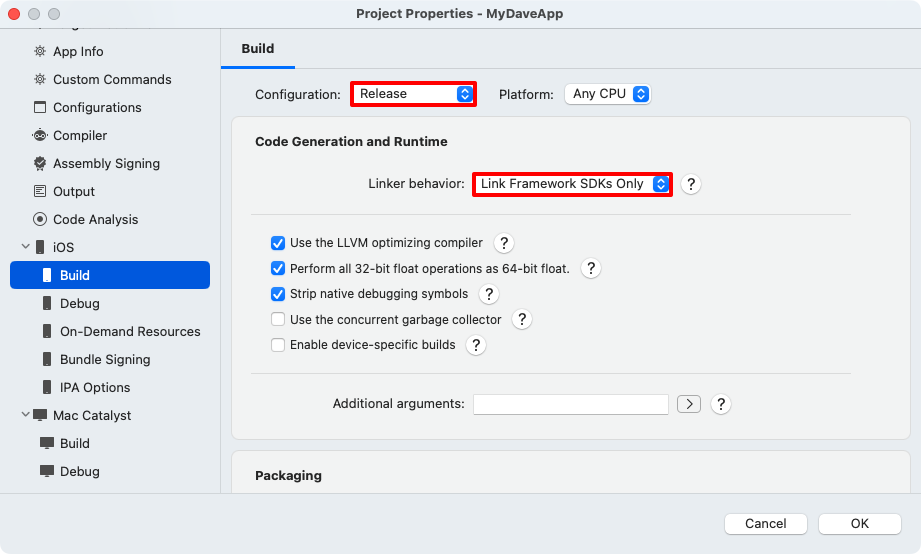
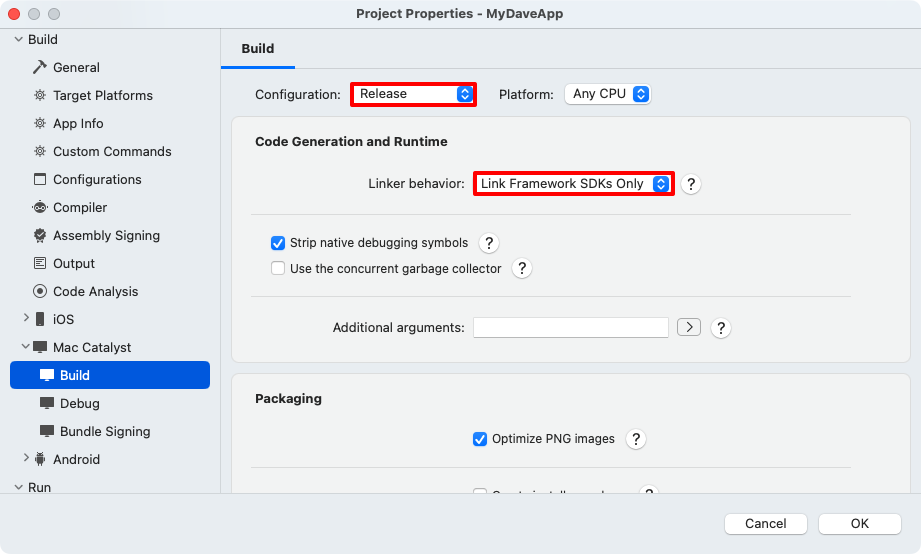
Edits.

diff --git a/docs/mac-catalyst/linking.md b/docs/mac-catalyst/linking.md
@@ -10,10 +10,10 @@ no-loc: [ ILLink ]
 [!INCLUDE [Linker introduction and behavior](../macios/includes/linker-behavior.md)]
 
 1. In the **Solution Window**, right-click on your .NET MAUI app project and select **Properties**.
-1. In the **Project Properties** window, select the **Build > iOS > Builg** tab.
+1. In the **Project Properties** window, select the **Build > Mac Catalyst > Build** tab.
 1. In the **Project Properties** window, ensure the **Configuration** drop-down is set to **Release** and set the **Linker behavior** drop-down to your desired linker behavior:
 
-    :::image type="content" source="media/linking/vsmac.png" alt-text="Screenshot of the linker behavior for iOS in Visual Studio for Mac.":::
+    :::image type="content" source="media/linking/vsmac.png" alt-text="Screenshot of the linker behavior for Mac Catalyst in Visual Studio for Mac.":::
 
 1. In the **Project Properties** window, click the **OK** button.
 

diff --git a/docs/ios/linking.md b/docs/ios/linking.md
@@ -22,7 +22,7 @@ no-loc: [ ILLink ]
 <!-- markdownlint-enable MD025 -->
 
 1. In the **Solution Window**, right-click on your .NET MAUI app project and select **Properties**.
-1. In the **Project Properties** window, select the **Build > iOS > Builg** tab.
+1. In the **Project Properties** window, select the **Build > iOS > Build** tab.
 1. In the **Project Properties** window, ensure the **Configuration** drop-down is set to **Release** and set the **Linker behavior** drop-down to your desired linker behavior:
 
     :::image type="content" source="media/linking/vsmac.png" alt-text="Screenshot of the linker behavior for iOS in Visual Studio for Mac.":::
